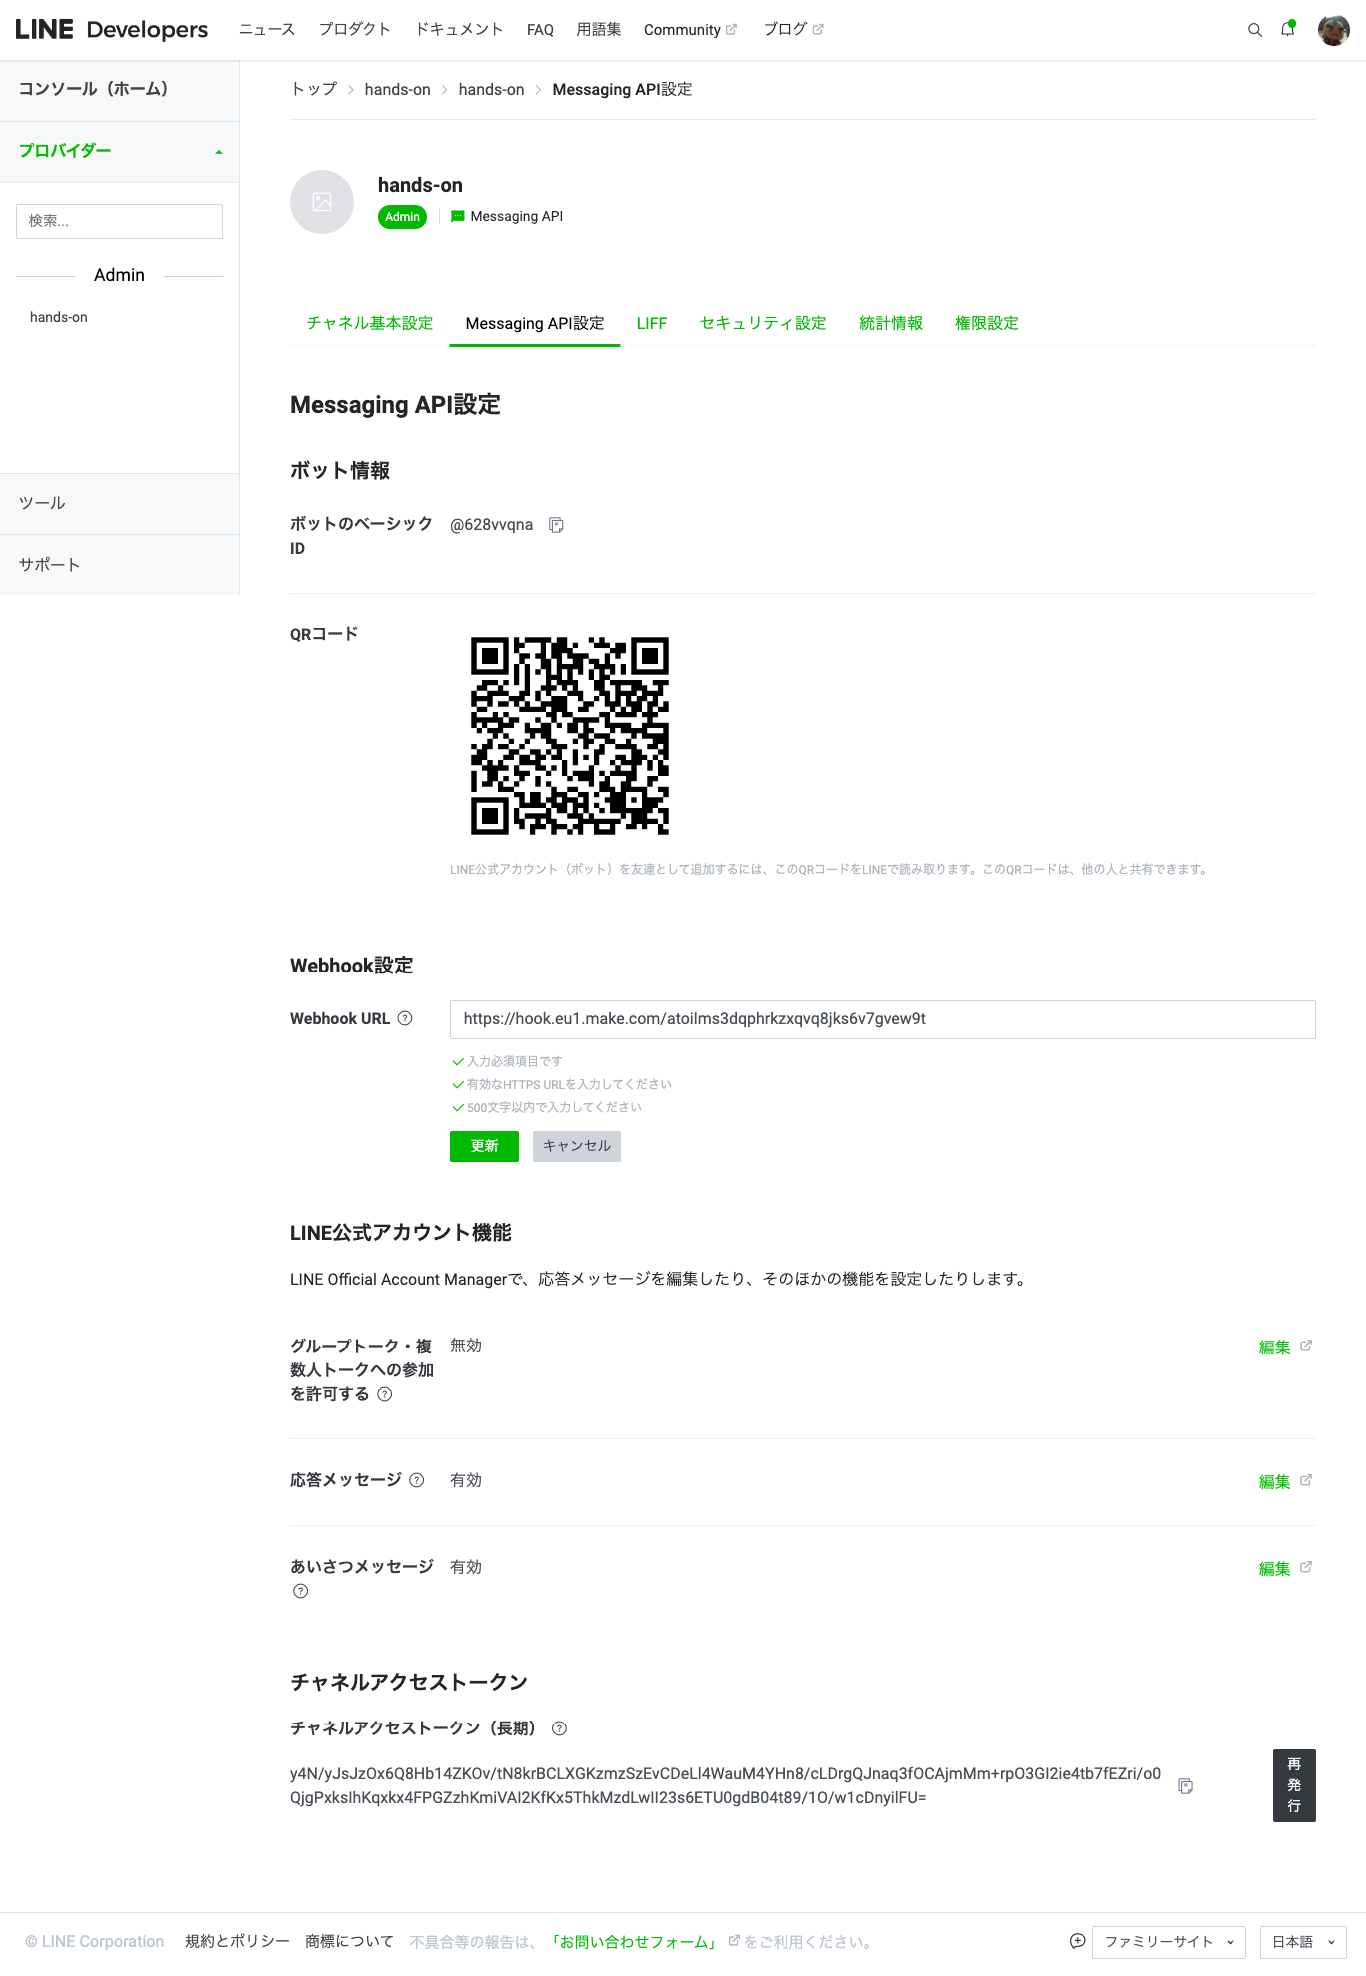
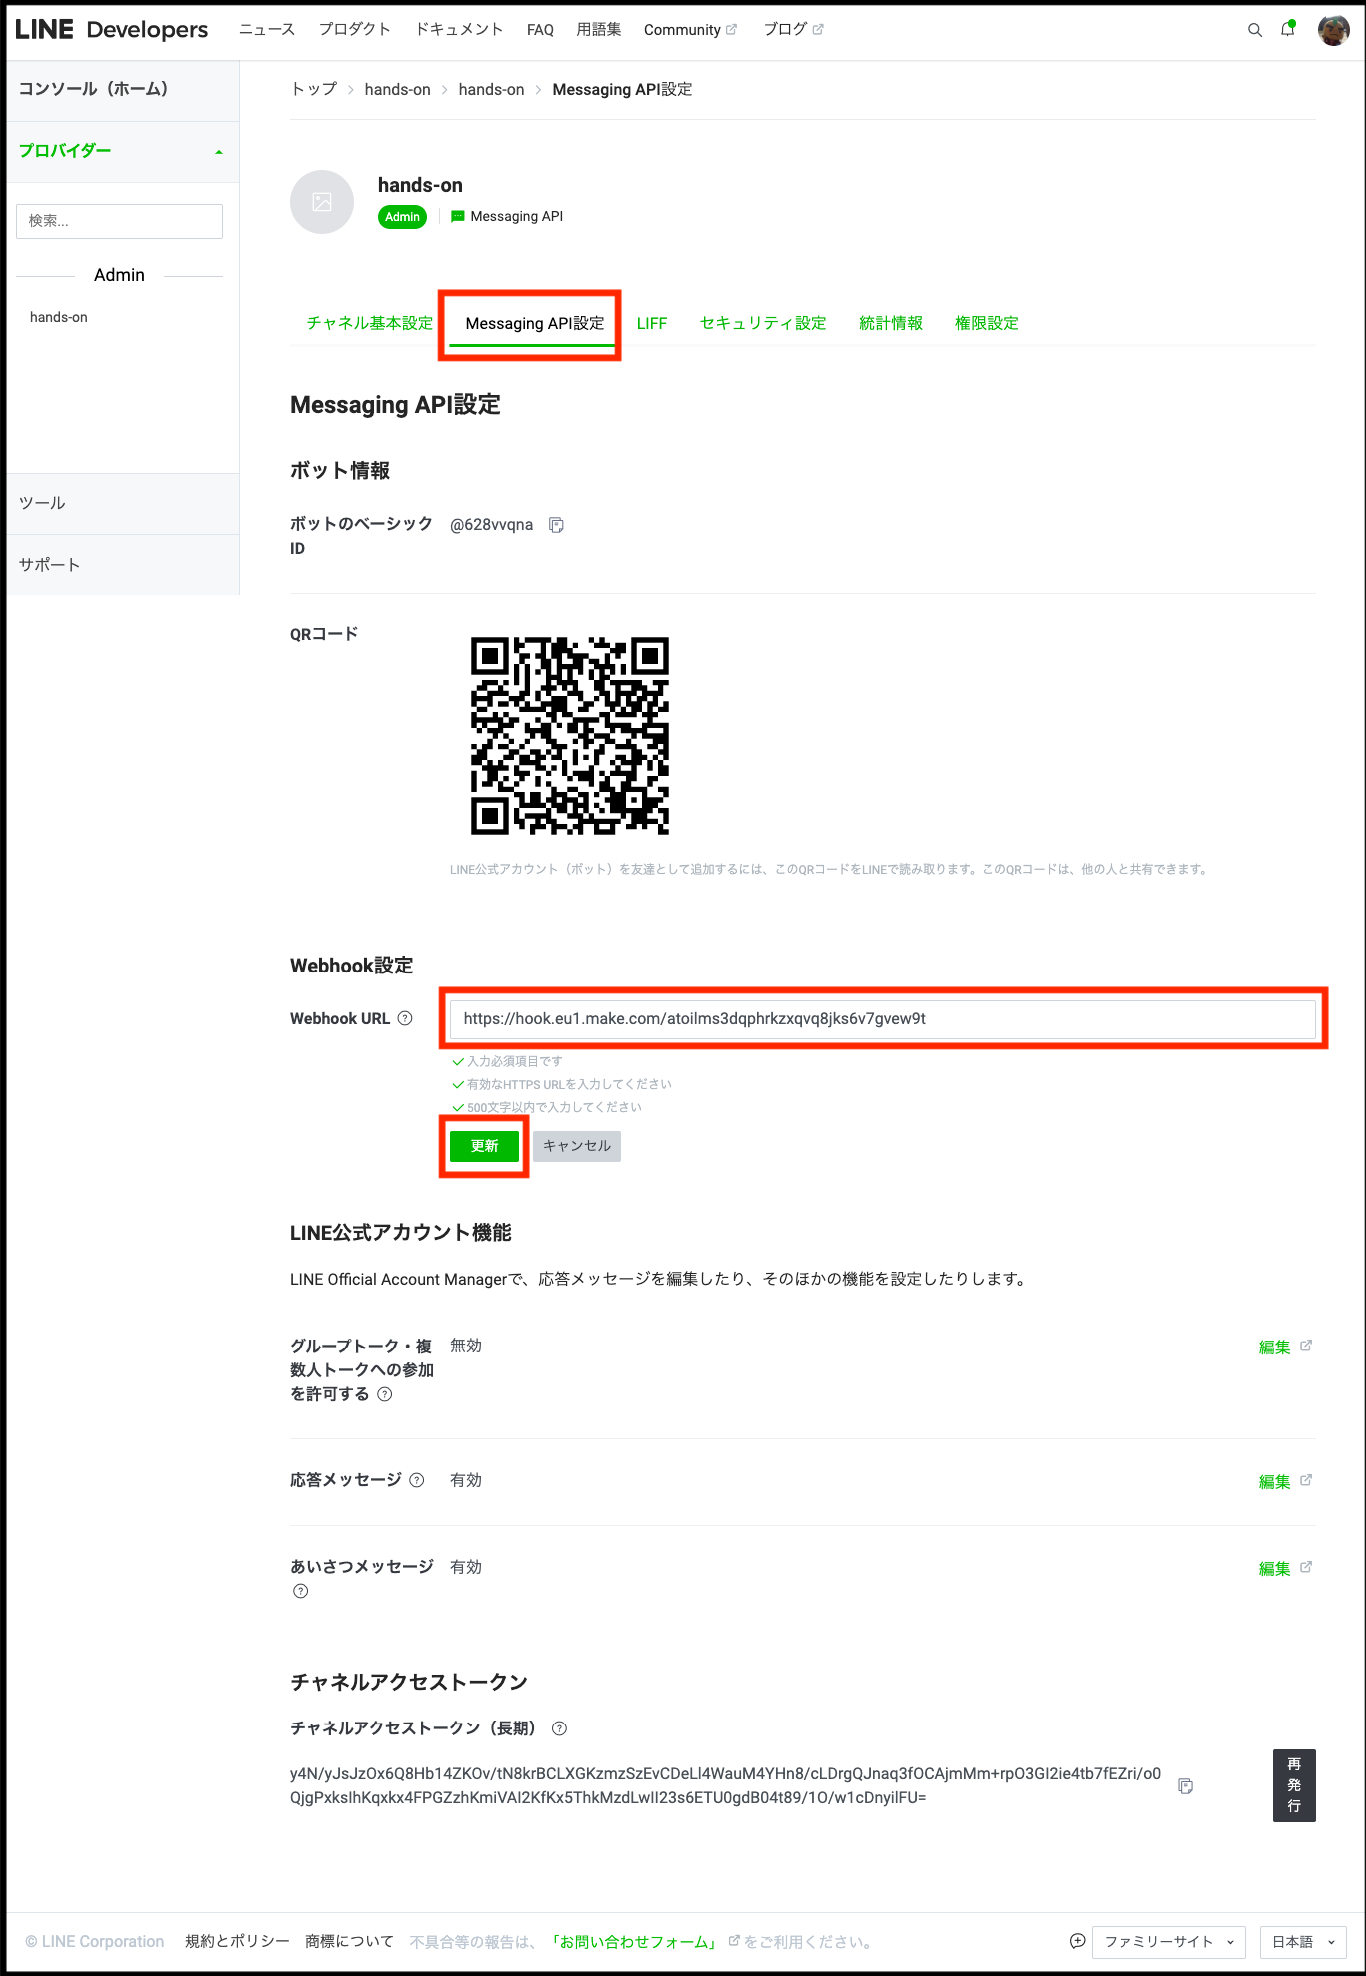
makeとLINEの連携部分の画像変更

diff --git a/README.md b/README.md
@@ -141,7 +141,7 @@
 
   1. LINE application の追加
 
-     「+」ボタンクリック後、検索フォームに「LINE」を入力し、「LINE」をクリック  
+     「+」ボタンクリック後、検索フォームに「LINE」を入力し、「LINE」を選択  
      ![make 04](img/make-04.png)
 
   1. 「Watch Events」 の追加
@@ -161,7 +161,7 @@
 
   1. 「connection」 の作成
 
-     「Create a connection」ダイアログの「Connection name」に「hands-on」と入力し、「Channel Access Token」に「「チャンネルアクセストークン」のコピー」でコピーしたチャネルアクセストークンを貼り付けて「Save」ボタンをクリック  
+     「Create a connection」ダイアログの「Connection name」に「hands-on」と入力し、「Channel Access Token」に【「チャンネルアクセストークン」のコピー】でコピーしたチャネルアクセストークンを貼り付けて「Save」ボタンをクリック  
      ![make 08](img/make-08.png)
 
   1. 「webhook」 の作成
@@ -171,7 +171,7 @@
 
   1. 「Webhook address」のコピー
 
-     「LINE」ダイアログの「Copy address to clipboard」ボタンをクリックし、「address」をコピーし、テキストに貼り付けておいてください。貼り付けが追わたら「OK」ボタンをクリックして「LINE」ダイアログを閉じてください
+     「LINE」ダイアログの「Copy address to clipboard」ボタンをクリックし、「address」をコピーし、テキストに貼り付けておいてください。貼り付けが終わったら「OK」ボタンをクリックして「LINE」ダイアログを閉じてください  
      ![make 10](img/make-10.png)
 
   1. 「make」を一時保存
@@ -183,14 +183,14 @@
 
   1. Webhook 設定
 
-     「LINE Developers」画面の「Messaging API 設定」タブの「Webhook 設定 > 編集」ボタンをクリック後、入力欄に【「Webhook address」のコピー】でコピーしたアドレスを貼り付けて「更新ボタン」をクリック
+     「LINE Developers」画面の「Messaging API 設定」タブの「Webhook 設定 > 編集」ボタンをクリック後、入力欄に【「Webhook address」のコピー】でコピーしたアドレスを貼り付けて「更新ボタン」をクリック  
      ![make-line 01](img/make-line-01.png)
 
   1. Webhook 検証
 
      「make」画面で「Run Once」ボタンクリック後、「LINE Developers」画面に戻り「Messaging API 設定」タブの「Webhook 設定 > 検証」ボタンをクリックし、「成功」ダイアログが表示されることを確認  
      「make」画面に戻り、LINE アイコンの右上に「1」が表示されることを確認  
-     「LINE Developers」画面に戻り「Messaging API 設定」タブの「Webhook 設定 > webhook の利用」ボタンを On に変更
+     「LINE Developers」画面に戻り「Messaging API 設定」タブの「Webhook 設定 > webhook の利用」ボタンを On に変更  
      ![make-line 02](img/make-line-02.png)
      ![make-line 03](img/make-line-03.png)
      ![make-line 04](img/make-line-04.png)
